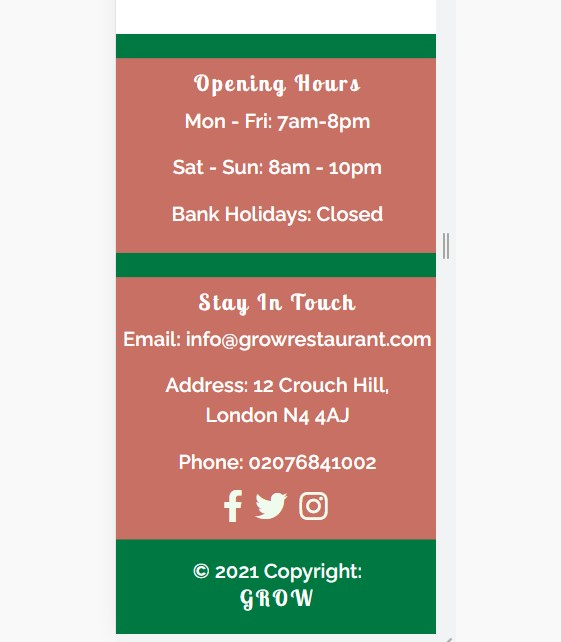
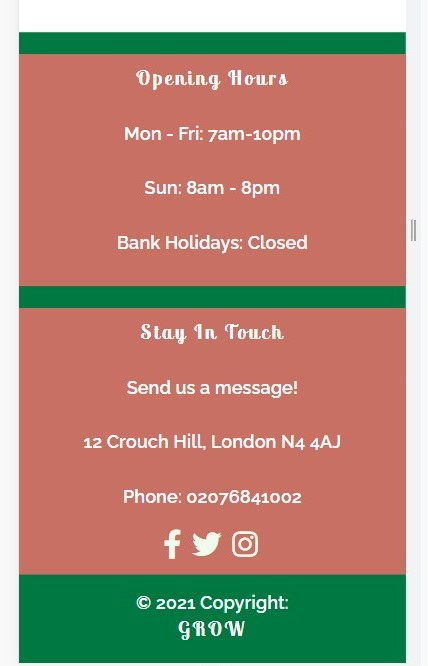
Update README to include information about rejected and expired reservations. Update images to reflect current website. Add link back to README in TESTING.md

diff --git a/grow_restaurant/settings.py b/grow_restaurant/settings.py
@@ -122,6 +122,7 @@ WSGI_APPLICATION = 'grow_restaurant.wsgi.application'
 # https://docs.djangoproject.com/en/3.2/ref/settings/#databases
 
 if os.environ.get("DEVELOPMENT") == "True":
+    # Testing database
     DATABASES = {
         'default': {
             'ENGINE': 'django.db.backends.sqlite3',
@@ -129,6 +130,7 @@ if os.environ.get("DEVELOPMENT") == "True":
         }
     }
 else:
+    # Heroku database
     DATABASES = {
         'default': dj_database_url.parse(os.environ.get("DATABASE_URL")),
         }

diff --git a/reservations/views.py b/reservations/views.py
@@ -224,6 +224,7 @@ class EditReservation(View):
                 "reservation that is in the past.")
             url = reverse('manage_reservations')
             return HttpResponseRedirect(url)
+        # Prevent customers editing rejected reservations
         elif reservation.status == 'rejected':
             messages.add_message(
                 request, messages.ERROR, "You are trying to edit a "

diff --git a/README.md b/README.md
@@ -12,14 +12,14 @@ This is a full-stack framework project built using Django, Python, HTML, CSS and
 ## Strategy
 Using the core UX principles I first started with Strategy, thinking about the target audience for this restaurant & the features they would benefit from.
 
-The target audience for 'Grow' is:
+The target audience for 'Grow' are:
 - 25-35 year olds
 - People that live a healthy, balanced lifestyle
 - People that enjoy eating out
 
 These users will be looking for:
-- Informative website, with information that is easy-to-find & concise
-- Current, up-to-date menus
+- An informative website, with information that is easy-to-find & concise
+- Current & up-to-date menus, with essential information such as price, allergens and dietary info
 - A booking form to make reservation enquiries with the restaurant
 
 This website will offer all of these things whilst also allowing for intuitive navigation and comfortability of use. 
@@ -115,20 +115,20 @@ The navigation bar is fully responsive and collapses on mobile screens to a hamb
 
 ![](assets/images/mobile_homepage.jpg)
 
-**Menus & Reservations images with links**: This image and title are both clickable and will take the user to the menus page. I have added a CSS rule that flips the image on hover & the title below also changes when it is hovered over, both have been implemented as a fun interaction for the user whilst giving a clear indication where they are on the page.
+**Menus & Reservations images with links**: This image and title are both clickable and will take the user to the menus or reservations page. I have added a CSS rule that flips the image on hover & the title below also changes when it is hovered over, both have been implemented as a fun interaction for the user whilst giving a clear indication where they are on the page.
 
 ![](assets/images/menus_res_links.jpg)
 
 **Footer**: The footer displays some of the restaurants key information and has links to social accounts. It is split into three sections, 'Opening Times', 'Find us! & 'Keep in touch', these sections have a pink background to make them stand out against the green.
 
-![](assets/images/index_2.jpg)
+![](assets/images/user_stories_testing/user_stories_footer.jpg)
 
  I felt that having all three sections displayed on a mobile screen made the footer too long so I chose to hide the map using a JavaScript function.
 
 ![](assets/images/footer_mobile.jpg)
 
 ### Menus
-**Menus page**: This page explains a little more about the menus in the restaurant, it has a link to each menu: Food or Drinks. These images and links have the same 'animation' on hover as the two on the homepage, creating consistency in the users' interaction with the elements.
+**Menus page**: This page explains a little more about the menus in the restaurant, it has a link to each menu: Food or Drinks. These images and links have the same 'animation' on hover as the two links on the homepage, creating consistency in the users' interaction with the elements.
 
 ![](assets/images/menus_page.jpg)
 
@@ -149,19 +149,31 @@ If they are not yet in the customer model then only their email address is added
 
 If the user is not logged in at all then the form appears blank, as the form requires the phone number to be entered in the +44 format I have added this placeholder to the phone number input field to try and help the user.
 
-![](assets/images/reservation_form.jpg)
+![](assets/images/blank_res_form.jpg)
 
-**Manage Reservations**: Logged in users are able to view the manage reservation page, on this page they are shown any reservation enquiries they have previously made using the email address associated with their user account.
+**Manage Reservations**: Logged in users are able to view the 'manage reservations' page, on this page they are shown any reservation enquiries they have previously made using the email address associated with their user account.
 
-The reservation id is displayed at the top of the reservation item so they can be easily identified, the reservation status is also given a coloured background, depending on what the status is, to give the user a visual representation of the status.
+The reservation ID is displayed at the top of the reservation item so they can be easily identified, the reservation status is also given a coloured background, depending on what the status is, to give the user a visual representation of this status.
 
-There are also edit & delete buttons, users are able to edit or delete any existing reservations they have. If the booking was confirmed before editing it will change to 'pending' status. 
+There are also edit & delete buttons, users are able to edit or delete existing reservations they have that are either 'confirmed' or 'pending'. 
 
 ![](assets/images/user_stories_testing/manage_reservations.jpg)
 
+I decided that reservations with a date in the past would display with a status of 'expired' and would not be able to be edited or deleted as this could cause confusion for the user and also the admin user, therefore the edit & delete buttons do not display under these reservations. Reservations with a 'rejected' status can also not be changed for the same reasons. 
+
+Defensive programme has been used to prevent users editing/deleting reservations that they aren't meant to, if a user tried (by adding the reservation id in the url) they would be redirected back to manage reservations.
+
+![](assets/images/edit_expired.jpg)
+
+![](assets/images/edit_rejected.jpg)
+
 **Edit Reservation**: This page simply displays the reservation form pre-populated using the reservation instance, the user is able to change the date, time or number of guests and resubmit the form. After resubmitting the user is redirected back to the 'Manage Reservations' page and a success message is displayed showing which reservation was edited. 
 
+![](assets/images/user_stories_testing/reservation_message.jpg)
+
 **Delete Reservations**: This page simply displays the reservation selected with all of its information, the user presses 'Cancel Reservation' and a modal pop's up for the user to confirm the cancellation, explaining that this cannot be undone. If the user chooses 'Cancel it' the reservation will be deleted from the model. After confirming the user is redirected back to the 'Manage Reservations' page and a success message is displayed showing which reservation was edited. 
+
+![](assets/images/user_stories_testing/cancel_reservation.jpg) 
 
 **Update customer details**: A logged-in user can also update their phone number or full name that is stored in the customer model, this can be done from the 'Update Details' link in the navbar. This page simply displays the customer form but has the email address blanked out - this is because the email is associated with the user account and so I want the user to change their email for their account.
 

diff --git a/TESTING.md b/TESTING.md
@@ -1,5 +1,7 @@
 # Manual Testing
 
+[Back to main README](README.md)
+
 ## Epic 1 - Core website functionality
 ### User Stories
 [Site Navigation](https://github.com/daisygunn/grow-restaurant/issues/1) / [Basic navbar & footer](https://github.com/daisygunn/grow-restaurant/issues/15) / [Informative Landing Page](https://github.com/daisygunn/grow-restaurant/issues/2) 
@@ -140,7 +142,7 @@ I have written a small number of JS functions that handle some animation & event
 
 And any larger than that it appears:
 
-![](assets/images/js_testing_images/footer_content_laptop.jpg)
+![](assets/images/user_stories_testing/user_stories_footer.jpg)
 
 I have used this function in conjunction with a `debounce` function to prevent the function triggering if being called continuously. It triggers after it has stopped being called for 250 milliseconds. As explained [here](https://davidwalsh.name/javascript-debounce-function)
 
